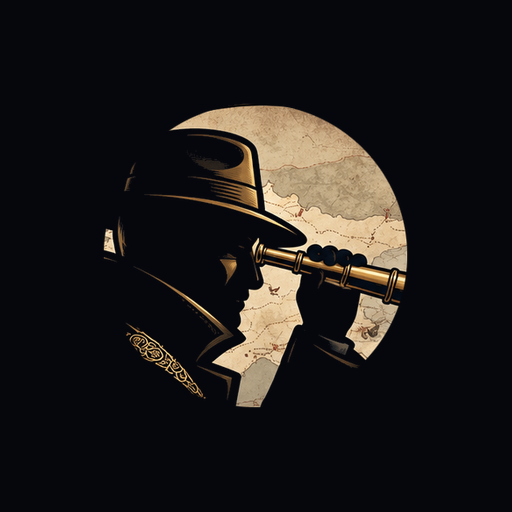
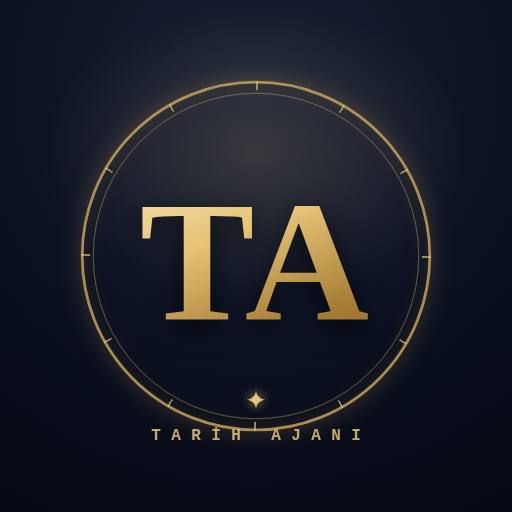
App: SEN ONER eklendi + premium uygulama ikonu (#222)
- /app URET ekranina SEN ONER butonu: aninda yerel seckin havuzdan
  oneri dusurur (15 konu, karisik sira) - hata/bekleme imkansiz.
  (Studio web'deki butonlar zaten yerinde; eksik olan yeni app'ti.)
- Uygulama ikonu yenilendi: beyaz kutuda yuzen daire yerine tam kare
  premium tasarim - koyu lacivert zemin, saat cizgili altin halka,
  altin degrade TA monogrami, TARIH AJANI yazisi. 192/512/maskable
  (guvenli alanli) uc boyut da yeniden uretildi.

Claude-Session: https://claude.ai/code/session_01BJwyexEs32mALDFgTCvWVh

diff --git a/app/index.html b/app/index.html
@@ -441,6 +441,27 @@ var STIL_CORE = {
   animasyon: 'high-quality 3D animated feature film still, Pixar-DreamWorks style expressive characters, soft global illumination, warm vibrant colors'
 };
 var uret = { ton: 'merak', stil: 'sinematik', sure: 60, busy: false, sonuc: null, hata: '', konu: '' };
+/* SEN ÖNER — anında, hatasız: yerel seçkin havuz (karışık sıra, tekrar yok) */
+var ONERI = (function () {
+  var p = ['Hezârfen gerçekten uçtu mu? Boğaz’ı geçen adamın belge yüzü',
+    'II. Abdülhamid’in kurduğu gizli istihbarat: Yıldız arşivinin sırrı',
+    'Selçuklu hastanelerinde müzikle ve suyla tedavi edilen hastalar',
+    'Kâtip Çelebi’nin haritasında olmayan ama gerçek olan ada',
+    'Fatih’in İtalyan ressamı Bellini’nin kaybolan İstanbul defterleri',
+    'Yeniçeriler isyan ederken neden kazan devirirdi?',
+    'Mimar Sinan’ın köprüsündeki gizli imza: ustalık şifresi mi?',
+    'Piri Reis haritasındaki imkânsız kıyı: Antarktika bilmecesi',
+    'Osmanlı’nın ilk denizaltısı Abdülhamid: 1886’da torpido atan gemi',
+    'Roma lejyonunun Çin kaynaklarında izi: kayıp lejyon nerede?',
+    'İskender’in mezarı neden hâlâ bulunamadı?',
+    'Vikinglerin Amerika’sı: Kolomb’dan beş asır önceki köy',
+    'Bizans’ın sokak lambaları: Ortaçağ’da aydınlatılan başkent',
+    'Timur’un mezarındaki lanet yazısı ve 1941 baharı',
+    'Antikythera makinesi: iki bin yıllık dişli bilgisayar kimin?'];
+  for (var i = p.length - 1; i > 0; i--) { var j = Math.floor(Math.random() * (i + 1)); var t = p[i]; p[i] = p[j]; p[j] = t; }
+  return p;
+})();
+var oneriIdx = 0;
 function uretKredi() { return Math.max(30, Math.round((20 + uret.sure / 4) / 5) * 5); }
 function drawUret() {
   var el = $('#scr-uret');
@@ -449,7 +470,8 @@ function drawUret() {
   el.innerHTML =
     '<div class="h-row"><div><b>Yeni Dosya</b><span class="alt">KONU YAZ · TARZI SEÇ · ÜRET</span></div>' +
     '<button class="kredi" data-go="profil">🪙 <span data-kredi>…</span></button></div>' +
-    '<div class="pad"><textarea id="u-konu" class="inp" rows="3" placeholder="Bir olay, kişi ya da soru yaz — ör. Kanuni’nin Zigetvar seferi">' + esc(uret.konu) + '</textarea></div>' +
+    '<div class="pad"><textarea id="u-konu" class="inp" rows="3" placeholder="Bir olay, kişi ya da soru yaz — ör. Kanuni’nin Zigetvar seferi">' + esc(uret.konu) + '</textarea>' +
+    '<button class="chip" id="u-oner" style="margin-top:9px">◈ SEN ÖNER</button></div>' +
     '<div class="sh"><b>ANLATIM TONU</b></div><div class="opt-grid">' +
     TONLAR.map(function (t) { return '<button class="chip' + (uret.ton === t[0] ? ' on' : '') + '" data-ton="' + t[0] + '">' + t[1] + '</button>'; }).join('') + '</div>' +
     '<div class="sh"><b>GÖRSEL STİL</b></div><div class="opt-grid">' +
@@ -461,6 +483,15 @@ function drawUret() {
     '<div style="padding:20px 16px 0"><button class="cta" id="u-go">◉ &nbsp;ÜRET · ' + uretKredi() + ' KR</button>' +
     '<p class="alt-not" style="margin-top:12px">Seslendirme ve sahne görselleri üretimden sonra dosyanın içinde</p></div>';
   $('#u-konu').addEventListener('input', function (e) { uret.konu = e.target.value; });
+  $('#u-oner').addEventListener('click', function () {
+    var b = $('#u-oner');
+    b.textContent = '◈ AJAN DÜŞÜNÜYOR…';
+    setTimeout(function () {
+      uret.konu = ONERI[oneriIdx % ONERI.length]; oneriIdx++;
+      $('#u-konu').value = uret.konu;
+      b.textContent = '◈ SEN ÖNER';
+    }, 420);
+  });
   $('#u-sure').addEventListener('input', function (e) {
     uret.sure = +e.target.value;
     $('#u-sure-v').textContent = sureText() + ' · ' + uretKredi() + ' KR';